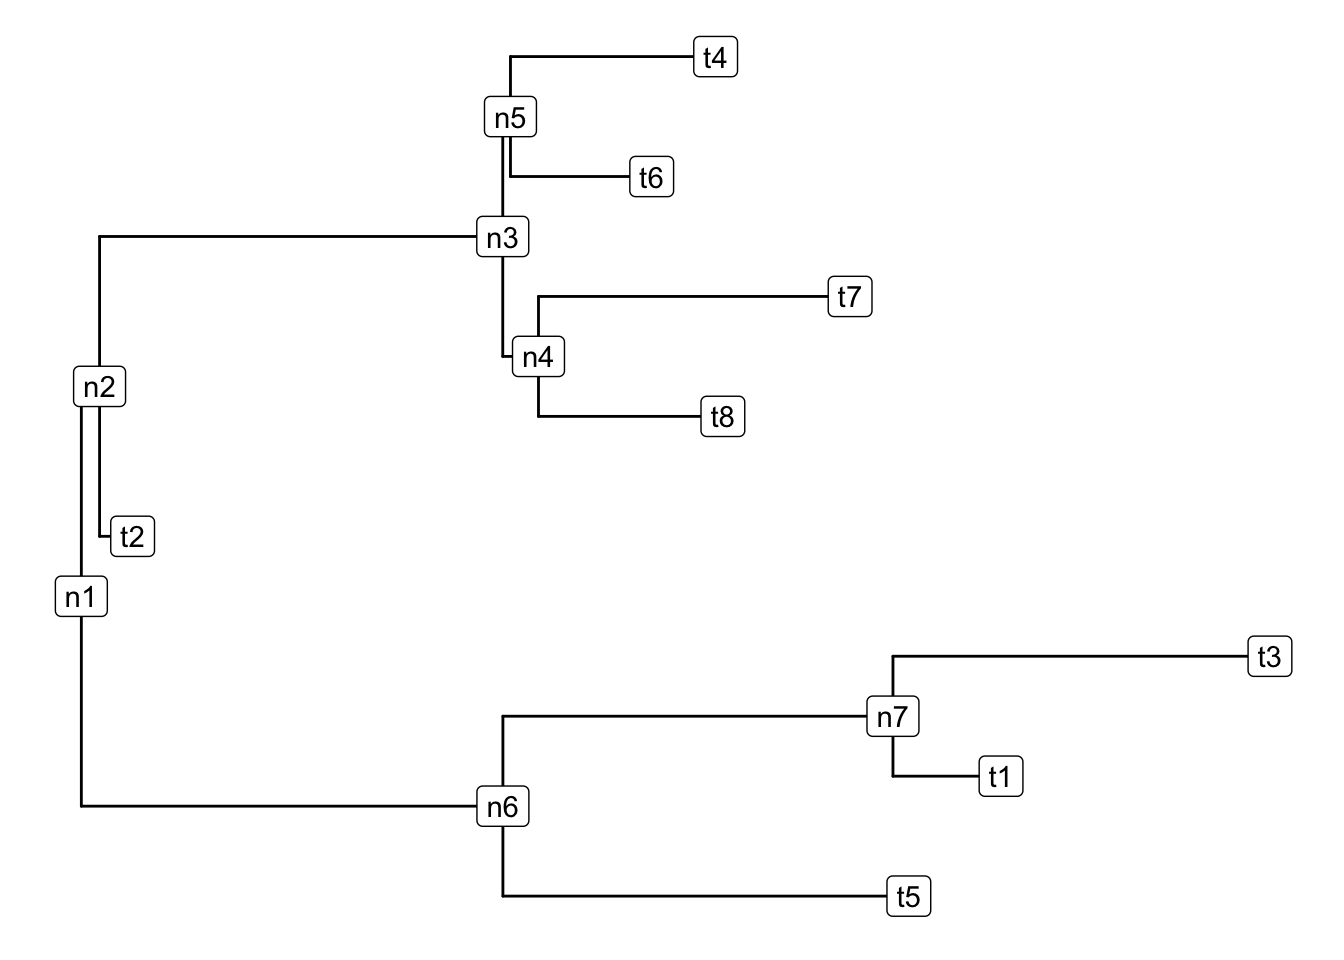
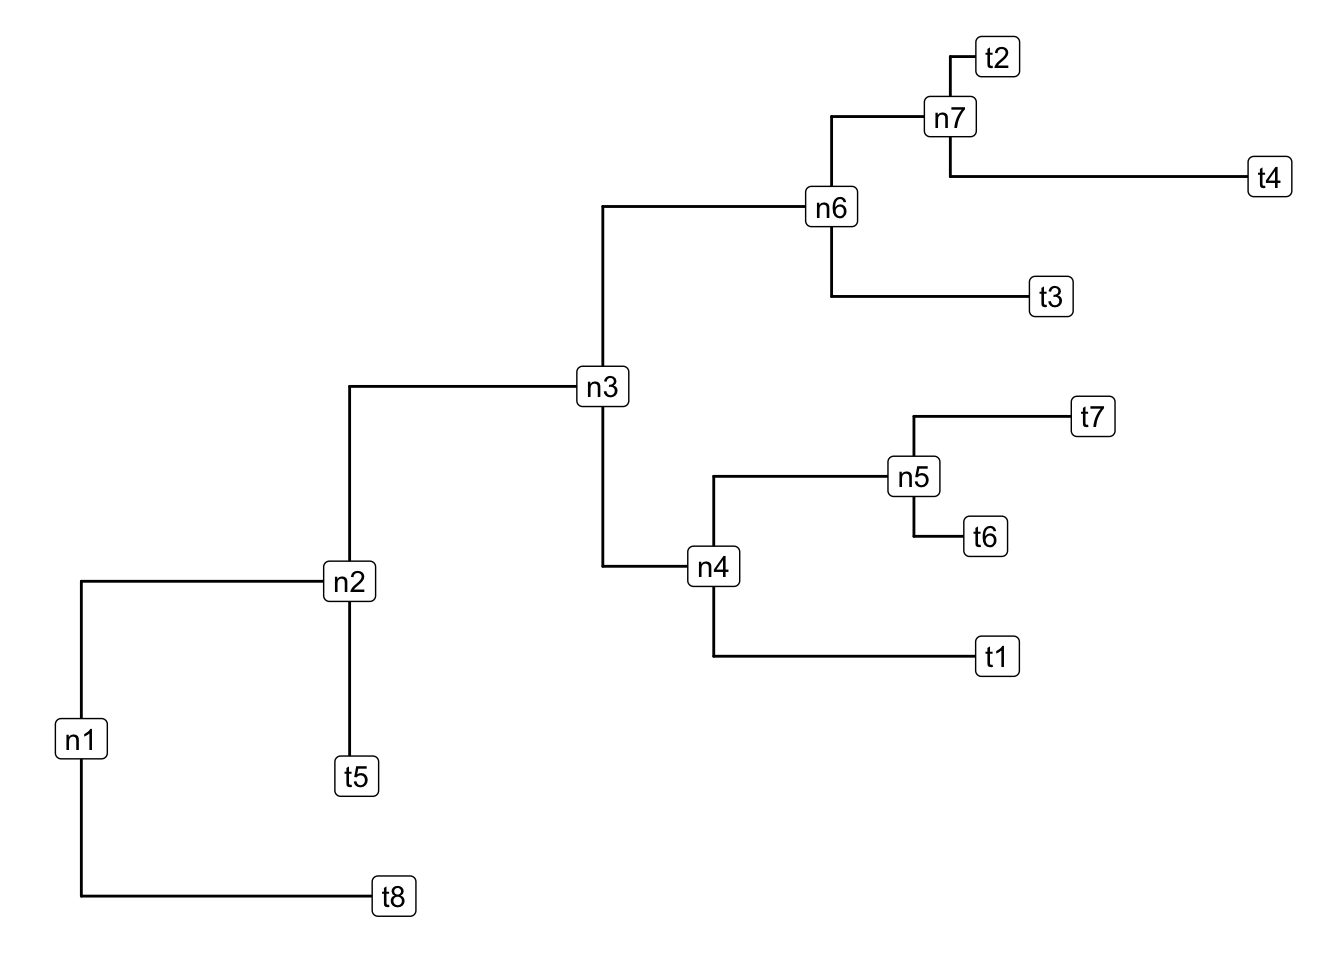
Nicer Looking Tree

diff --git a/public/2017/09/20/plotting-a-sequential-binary-partition-on-a-tree-in-r/index.html b/public/2017/09/20/plotting-a-sequential-binary-partition-on-a-tree-in-r/index.html
@@ -225,14 +225,14 @@ MathJax.Hub.Config({
 <p>However, as in the case of the ILR (or PhILR) transforms, we may have specific orientation information distinguishing between the top/bottom or left/right descendant of an internal node. In this case a sequential binary partition can be represented in sign matrix form in which 1 represents an “up” (or, for PhILR, a tip in the numerator of a balance), a -1 represents a “down” (or a tip something in the denominator), and a 0 represents a tip not downstream of that partition (or a tip not part of that balance). I will generate a sequential binary partition by using the function <em>phylo2sbp</em> in the <a href="https://bioconductor.org/packages/release/bioc/html/philr.html"><em>philr</em> R package</a>.</p>
 <pre class="r"><code>(V &lt;- phylo2sbp(tr))</code></pre>
 <pre><code>##    n1 n2 n3 n4 n5 n6 n7
-## t8  1  1  1  1  0  0  0
-## t7  1  1  1 -1  0  0  0
-## t6  1  1 -1  0  1  0  0
-## t4  1  1 -1  0 -1  0  0
-## t2  1 -1  0  0  0  0  0
-## t5 -1  0  0  0  0  1  0
-## t1 -1  0  0  0  0 -1  1
-## t3 -1  0  0  0  0 -1 -1</code></pre>
+## t8  1  0  0  0  0  0  0
+## t5 -1  1  0  0  0  0  0
+## t1 -1 -1  1  1  0  0  0
+## t6 -1 -1  1 -1  1  0  0
+## t7 -1 -1  1 -1 -1  0  0
+## t4 -1 -1 -1  0  0  1  1
+## t2 -1 -1 -1  0  0  1 -1
+## t3 -1 -1 -1  0  0 -1  0</code></pre>
 <p>Here is a simple function that will augment the labels from a ggtree object with the information in the sign-matrix. The only reason this is semi-non-trivial is that ggtree has its own internal mechanisms for orienting branches by default. This function takes a ggtree object (which if not specified it will also create) and correctly labels the internal nodes in accordance with the ggtree object.</p>
 <pre class="r"><code># - Assumes tree&#39;s internal nodes and tips are named
 # - can pass smaller contrast matrix to subset which are annotated

diff --git a/content/post/2017-09-20-plotting-a-sequential-binary-partition-on-a-tree-in-r.html b/content/post/2017-09-20-plotting-a-sequential-binary-partition-on-a-tree-in-r.html
@@ -20,14 +20,14 @@ tags:
 <p>However, as in the case of the ILR (or PhILR) transforms, we may have specific orientation information distinguishing between the top/bottom or left/right descendant of an internal node. In this case a sequential binary partition can be represented in sign matrix form in which 1 represents an “up” (or, for PhILR, a tip in the numerator of a balance), a -1 represents a “down” (or a tip something in the denominator), and a 0 represents a tip not downstream of that partition (or a tip not part of that balance). I will generate a sequential binary partition by using the function <em>phylo2sbp</em> in the <a href="https://bioconductor.org/packages/release/bioc/html/philr.html"><em>philr</em> R package</a>.</p>
 <pre class="r"><code>(V &lt;- phylo2sbp(tr))</code></pre>
 <pre><code>##    n1 n2 n3 n4 n5 n6 n7
-## t8  1  1  1  1  0  0  0
-## t7  1  1  1 -1  0  0  0
-## t6  1  1 -1  0  1  0  0
-## t4  1  1 -1  0 -1  0  0
-## t2  1 -1  0  0  0  0  0
-## t5 -1  0  0  0  0  1  0
-## t1 -1  0  0  0  0 -1  1
-## t3 -1  0  0  0  0 -1 -1</code></pre>
+## t8  1  0  0  0  0  0  0
+## t5 -1  1  0  0  0  0  0
+## t1 -1 -1  1  1  0  0  0
+## t6 -1 -1  1 -1  1  0  0
+## t7 -1 -1  1 -1 -1  0  0
+## t4 -1 -1 -1  0  0  1  1
+## t2 -1 -1 -1  0  0  1 -1
+## t3 -1 -1 -1  0  0 -1  0</code></pre>
 <p>Here is a simple function that will augment the labels from a ggtree object with the information in the sign-matrix. The only reason this is semi-non-trivial is that ggtree has its own internal mechanisms for orienting branches by default. This function takes a ggtree object (which if not specified it will also create) and correctly labels the internal nodes in accordance with the ggtree object.</p>
 <pre class="r"><code># - Assumes tree&#39;s internal nodes and tips are named
 # - can pass smaller contrast matrix to subset which are annotated
